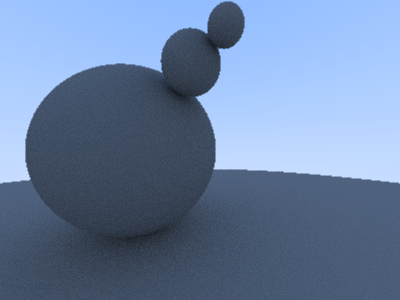
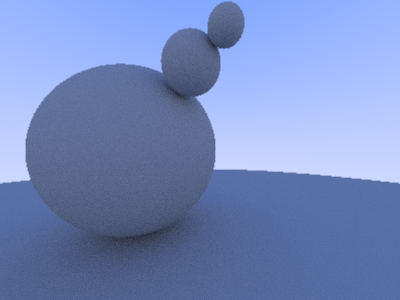
Added Lambertian ray diffusion and color gamma correction

diff --git a/src/tracer.cpp b/src/tracer.cpp
@@ -6,10 +6,11 @@
 
 const double MIN_T=0.001; // Avoid fake collisions at very low t that come from floating point rounding errors
 const double MAX_T=std::numeric_limits<double>::infinity();
+const double BOUNCE_ABSORPTION=0.60;
   
 using std::make_shared;
 
-Tracer::Tracer()
+Tracer::Tracer(DiffuseModel diffuse) : diffuse(diffuse)
 {
     // Ground
     objs.push_back(make_shared<Sphere>(Point(0, -101, -2), 100));
@@ -54,16 +55,31 @@ Color Tracer::calc_color(const Ray &ray, int max_depth)
             Color normal_color(0, 0, 0);// = (closest_hit.normal + Vec3(1,1,1)) / 2; // Convert coords from [-1, 1] to [0, 1]
             
             // Random ray bounce
-            Vec3 random_dir = rand.gen_uniform_unit_vec();
-            if (dot(random_dir, closest_hit.normal) < 0)
+            Vec3 random_dir;
+            if (diffuse == DiffuseModel::Uniform)
             {
-                // Make sure random bounce goes outside of the object (and not inside)
-                random_dir = -random_dir;
+                // Distribution is uniform on the hemisphere above the surface
+                random_dir = rand.gen_uniform_unit_vec();
+                if (dot(random_dir, closest_hit.normal) < 0)
+                {
+                    // Make sure random bounce goes outside of the object (and not inside)
+                    random_dir = -random_dir;
+                }
             }
+            else if (diffuse == DiffuseModel::Lambertian)
+            {
+                // Distribution lies more heavily near the surface normal
+                random_dir = closest_hit.normal + rand.gen_uniform_unit_vec();
+            }
+            else
+            {
+                std::cerr << "Invalid diffuse model" << std::endl;
+                return Color(0, 0, 0);
+            }
+
             Ray random_ray(closest_hit.hit_point, random_dir);
             Color bounce_color = calc_color(random_ray, max_depth-1);
-
-            return normal_color + 0.5 * bounce_color;
+            return normal_color + (1 - BOUNCE_ABSORPTION) * bounce_color;
         }
         // Ray is hitting the object from the inside
         return Color(0, 0, 0);
@@ -72,7 +88,7 @@ Color Tracer::calc_color(const Ray &ray, int max_depth)
     // Not hit -- use background color
     Vec3 unit_dir = unit(ray.direction());
     double interp = (unit_dir.y() + 1.0) / 2; // Convert y from [-1, 1] to [0, 1]
-    Color blue(0.5, 0.7, 1.0);
+    Color blue(0.1, 0.3, 1.0);
     Color white(1.0, 1.0, 1.0);
     Color blend = (1-interp) * white + interp * blue; // Lerp
     return blend;

diff --git a/src/image.cpp b/src/image.cpp
@@ -7,11 +7,23 @@
 #include "random.h"
 
 #define MAX_COLOR 255
+#define GAMMA 2.2
 #define SAMPLES_PER_PIXEL 100
 #define RAY_BOUNCE_LIMIT 50
 
 Image::Image(const std::string &filename, Tracer *tracer, Viewport *view) : 
         filename(filename), tracer(tracer), view(view), width(view->screen_width), height(view->screen_height) {}
+        
+// Gamma correction
+Color linear_to_gamma(Color linear_color)
+{
+    Color gamma_color;
+    for (int i=0; i<3; i++)
+    {
+        gamma_color[i] = std::pow(linear_color[i], 1.0 / GAMMA);
+    }
+    return gamma_color;
+}
 
 bool Image::render()
 {
@@ -46,10 +58,11 @@ bool Image::render()
                 double offset_v = random.gen_uniform(-0.5, 0.5);
                 Ray ray = view->get_ray(x + offset_h, y + offset_v);
                 Color cur_color = tracer->calc_color(ray, RAY_BOUNCE_LIMIT);
-                cur_color.clamp(0, 1);
                 color += cur_color;
             }
             color /= SAMPLES_PER_PIXEL; // Average samples
+            color.clamp(0, 1);
+            color = linear_to_gamma(color); // Gamma correction
             out << (color * MAX_COLOR).round() << std::endl;
         }
     }

diff --git a/src/tracer.h b/src/tracer.h
@@ -10,14 +10,21 @@
 
 using std::shared_ptr;
 
+enum DiffuseModel
+{
+    Uniform,
+    Lambertian
+};
+
 class Tracer
 {
     public:
-        Tracer();
+        Tracer(DiffuseModel diffuse);
         Color calc_color(const Ray &ray, int max_depth);
     private:
         std::vector<shared_ptr<Hittable>> objs;
         Random rand;
+        DiffuseModel diffuse;
 };
 
 #endif // _TRACER_H_ 

diff --git a/src/main.cpp b/src/main.cpp
@@ -9,7 +9,7 @@ int main(int argc, char **argv)
     (void)argc; // Mark as unused
     (void)argv; // Mark as unused
 
-    Tracer tracer;
+    Tracer tracer(DiffuseModel::Lambertian);
     Viewport view(SCREEN_WIDTH);
     Image image("orot.ppm", &tracer, &view);
 
